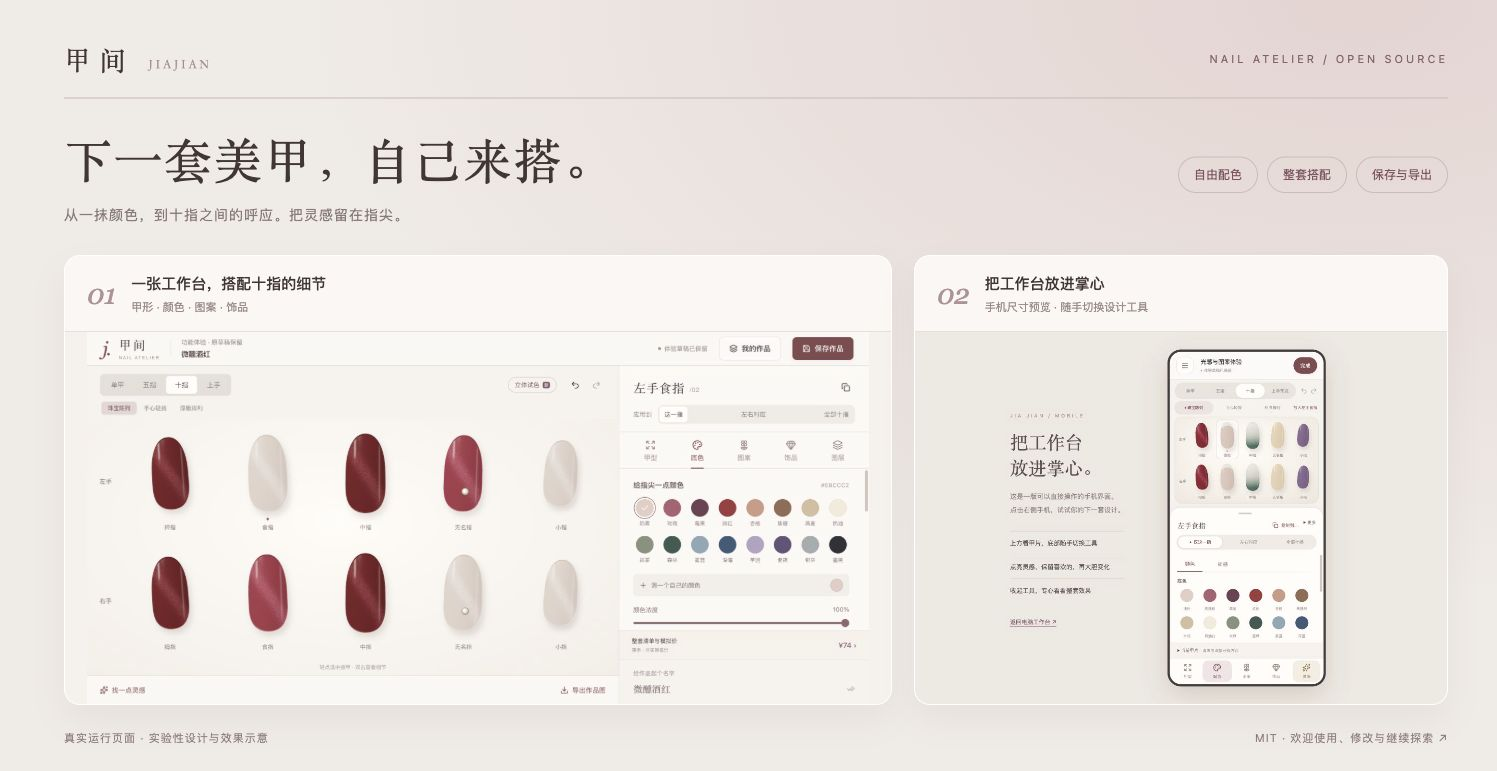
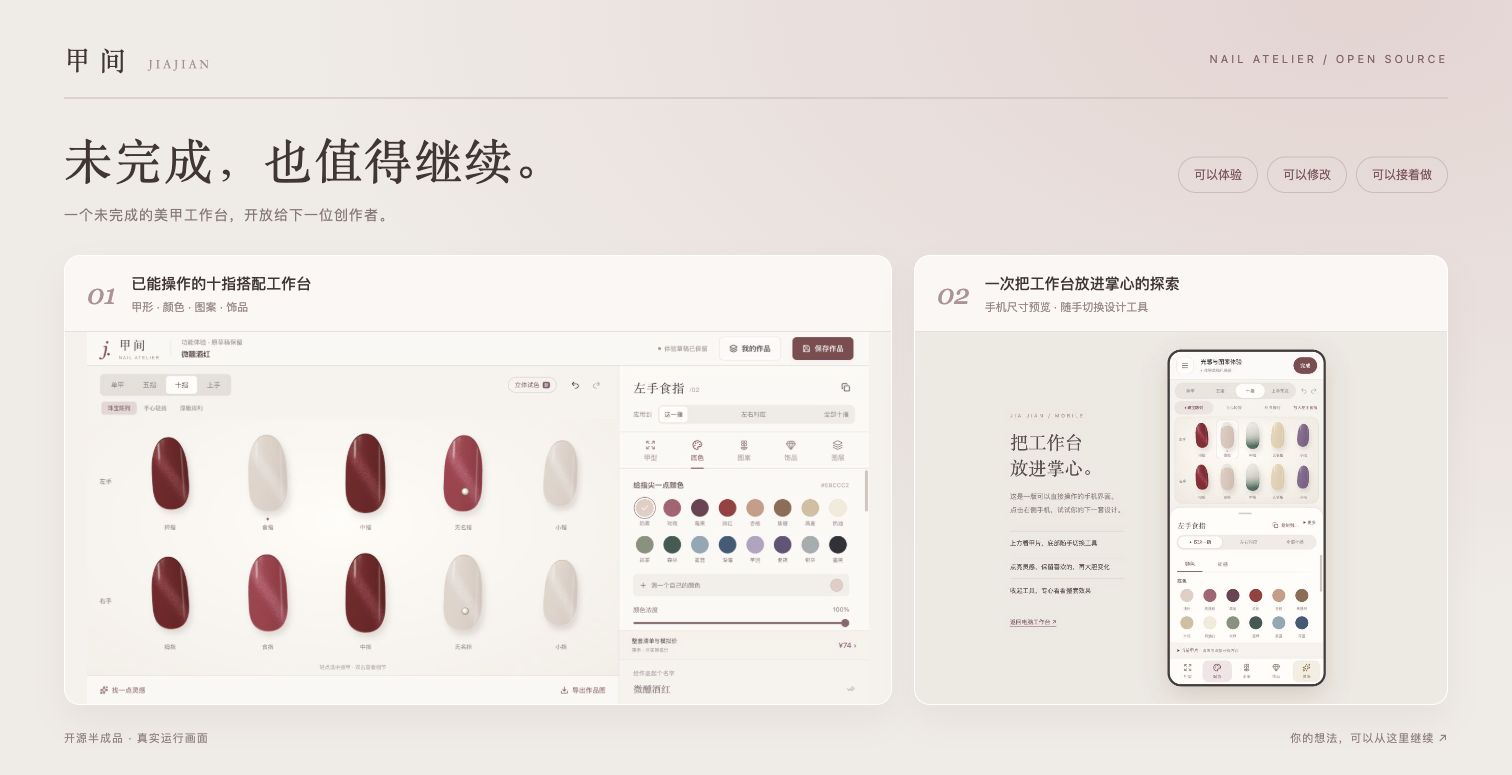
Present Jiajian as an open creative starting point with real demo

diff --git a/docs/showcase.html b/docs/showcase.html
@@ -1,3 +1,3 @@
-<!doctype html><html lang="zh-CN"><meta charset="utf-8"><meta name="viewport" content="width=device-width,initial-scale=1"><title>甲间 · 自己搭配下一套美甲</title><style>
+<!doctype html><html lang="zh-CN"><meta charset="utf-8"><meta name="viewport" content="width=device-width,initial-scale=1"><title>甲间 · 开放给下一位创作者</title><style>
 *{box-sizing:border-box}body{margin:0;background:#f0ebe5;color:#423536;font-family:-apple-system,BlinkMacSystemFont,"PingFang SC",sans-serif}.poster{padding:40px 64px 26px;min-height:100vh;background:radial-gradient(ellipse at 90% 0%,#e6d3d1,transparent 55%)}header{display:flex;justify-content:space-between;align-items:center;border-bottom:1px solid #c9b9b6;padding-bottom:20px}.logo{font-family:"Songti SC",serif;font-size:27px;letter-spacing:8px}.eyebrow{font-size:11px;letter-spacing:3px;color:#86626a}.intro{display:flex;align-items:center;justify-content:space-between;padding:26px 0 30px}h1{font-family:"Songti SC",serif;font-weight:400;font-size:48px;letter-spacing:2px;margin:0 0 13px}.subtitle{color:#897879;font-size:14px;letter-spacing:1px}.pills{display:flex;gap:9px}.pills span{border:1px solid #cdbbb9;padding:9px 15px;border-radius:30px;font-size:12px;color:#80515c}.grid{display:grid;grid-template-columns:1.55fr 1fr;gap:22px;align-items:start}.card{background:#faf7f3;border-radius:16px;overflow:hidden;box-shadow:0 15px 35px #644c4c12;border:1px solid #fff}.caption{display:flex;gap:15px;align-items:center;padding:17px 22px;border-bottom:1px solid #e8dfda}.num{font:italic 28px Georgia;color:#b09297}.caption strong{display:block;font-size:15px;font-weight:500}.caption small{display:block;color:#9b8a87;margin-top:5px;font-size:11px}.card img{width:100%;height:auto;display:block}.mobile img{height:372px;object-fit:cover;object-position:57% center}.desktop img{height:372px;object-fit:contain;background:#f5f2ed}footer{display:flex;justify-content:space-between;color:#927f7d;font-size:11px;padding-top:25px;letter-spacing:1px}@media(max-width:900px){.poster{padding:25px}.intro{display:block}h1{font-size:36px}.pills{margin-top:20px}.grid{grid-template-columns:1fr}.mobile img,.desktop img{height:auto}}
-</style><div class="poster"><header><div class="logo">甲间 <span style="font-size:12px;letter-spacing:3px;color:#a58e90">JIAJIAN</span></div><div class="eyebrow">NAIL ATELIER / OPEN SOURCE</div></header><div class="intro"><div><h1>下一套美甲，自己来搭。</h1><div class="subtitle">从一抹颜色，到十指之间的呼应。把灵感留在指尖。</div></div><div class="pills"><span>自由配色</span><span>整套搭配</span><span>保存与导出</span></div></div><div class="grid"><div class="card desktop"><div class="caption"><span class="num">01</span><div><strong>一张工作台，搭配十指的细节</strong><small>甲形 · 颜色 · 图案 · 饰品</small></div></div><img src="images/workbench.jpg" alt="电脑工作台真实截图"></div><div class="card mobile"><div class="caption"><span class="num">02</span><div><strong>把工作台放进掌心</strong><small>手机尺寸预览 · 随手切换设计工具</small></div></div><img src="images/mobile-preview.jpg" alt="手机外框预览真实截图"></div></div><footer><span>真实运行页面 · 实验性设计与效果示意</span><span>MIT · 欢迎使用、修改与继续探索 ↗</span></footer></div></html>
+</style><div class="poster"><header><div class="logo">甲间 <span style="font-size:12px;letter-spacing:3px;color:#a58e90">JIAJIAN</span></div><div class="eyebrow">NAIL ATELIER / OPEN SOURCE</div></header><div class="intro"><div><h1>未完成，也值得继续。</h1><div class="subtitle">一个未完成的美甲工作台，开放给下一位创作者。</div></div><div class="pills"><span>可以体验</span><span>可以修改</span><span>可以接着做</span></div></div><div class="grid"><div class="card desktop"><div class="caption"><span class="num">01</span><div><strong>已能操作的十指搭配工作台</strong><small>甲形 · 颜色 · 图案 · 饰品</small></div></div><img src="images/workbench.jpg" alt="电脑工作台真实截图"></div><div class="card mobile"><div class="caption"><span class="num">02</span><div><strong>一次把工作台放进掌心的探索</strong><small>手机尺寸预览 · 随手切换设计工具</small></div></div><img src="images/mobile-preview.jpg" alt="手机外框预览真实截图"></div></div><footer><span>开源半成品 · 真实运行画面</span><span>你的想法，可以从这里继续 ↗</span></footer></div></html>

diff --git a/README.md b/README.md
@@ -1,30 +1,55 @@
-![甲间：下一套美甲，自己来搭](docs/images/cover.jpg)
+![甲间：一个未完成的美甲工作台，开放给下一位创作者](docs/images/cover.jpg)
 
-# 甲间 · Jiajian Nail Atelier
+# 甲间 · 开放给下一位创作者
 
-一个可以自由搭配颜色、甲形、图案和饰品的美甲设计工作台。从一片指甲开始，慢慢搭出属于自己的整套风格。
+**一个未完成的美甲工作台，一份可以继续的创作起点。**
 
-开源实验项目，欢迎使用、修改和继续探索。
+配色、甲形、图案、饰品与十指搭配，已经有了可以操作的起点。甲间还没有成为一个完整产品，但我们希望这些探索不止停留在这里。
 
-## 能做什么
+所以，我们把它开源。你可以用它搭配自己的美甲，研究一个设计工具如何组织体验，也可以带着新的想法，把它继续做下去。
 
-- 为单指、五指或十指搭配颜色、甲形、图案和饰品。
-- 查看设计、生成灵感、保存作品和导出作品图。
-- 在预览版探索猫眼、光泽、材质效果及手机尺寸下的工作台。
-- 使用默认手部素材查看示意，不必先上传自己的照片。
+**[下载项目](https://github.com/laizhihui874-cmd/jiajian/releases/latest) · [开始体验](#开始体验) · [看看可以继续做什么](#下一步可以由你来写)**
 
+## 已经做出的东西
 
-## 看看实际画面
+**从一片指甲，到一整套搭配。**
 
-**电脑工作台：从一片指甲到完整十指搭配。** 可以套用灵感，再调整颜色、图案和饰品。
+选择甲形和颜色，加上图案与饰品；单独调整一指，或让十指一起变化。也可以从已有灵感出发，保留喜欢的部分，再慢慢改成自己的款式。
 
-![微醺酒红搭配，工作台实际运行截图](docs/images/workbench.jpg)
+![甲间工作台：酒红与裸粉的十指搭配](docs/images/workbench.jpg)
 
-**手机预览：上方看设计，下方切换工具。**
+**让设计动起来，看见操作前后的变化。**
 
-![手机外框中的可操作工作台](docs/images/mobile-preview.jpg)
+下面用真实操作的关键画面，展示一套搭配如何换色、再调整其中一指。保存喜欢的作品，也可以导出作品图。
 
-以上为实际运行截图，效果仅作美甲设计参考。
+![真实操作关键帧：原搭配、整套换色、单指调整](docs/images/design-flow.gif)
+
+**也探索过，把工作台放进掌心。**
+
+上方看设计，下方切换工具。手机预览保留了另一种操作方式，光感与材质也还有值得继续打磨的空间。
+
+![甲间手机尺寸下的可操作预览](docs/images/mobile-preview.jpg)
+
+*以上均来自实际运行页面，效果仅作美甲设计参考。*
+
+## 你可以拿它做什么
+
+| 如果你是…… | 可以从这里开始 |
+|---|---|
+| 美甲爱好者 | 玩一套自己的配色，试试不同甲形、图案与重点甲的组合 |
+| 产品或界面设计师 | 研究十指搭配、工具切换、灵感选择这些具体体验，再提出自己的改法 |
+| 想做创作工具的人 | 拿已有工作台继续改造，探索自己的美甲工具或其他搭配工具 |
+
+## 下一步，可以由你来写
+
+这是半成品。下面这些是值得继续探索的方向，欢迎选择你感兴趣的一项：
+
+- **让第一步更容易**：让第一次打开的人更快理解怎么选、怎么改、怎么完成一套设计。
+- **让手机操作更顺手**：继续打磨小屏上的预览、工具切换与细节调整。
+- **让颜色与光感更自然**：改进猫眼、材质和手部展示，让不同视图中的效果更一致。
+- **让作品更方便分享**：完善作品整理、导出与展示，把搭配过程和成果讲得更清楚。
+
+它们是开放的探索方向，不是已经完成的功能或交付承诺。有想法可以[提出建议](https://github.com/laizhihui874-cmd/jiajian/issues)，也欢迎直接修改并分享你的版本。
 
 ## 开始体验
 
@@ -32,6 +57,8 @@
 - [电脑工作台使用指南](workbench/README.md)
 - [下载开源版本](https://github.com/laizhihui874-cmd/jiajian/releases/latest)
 
-## 开源与素材
+## 自由使用，继续创作
 
-自有代码按 [MIT License](LICENSE) 开源，欢迎使用、修改和继续开发。依赖和第三方素材保留各自许可，见 [素材与第三方说明](THIRD_PARTY_NOTICES.md)。
+自有代码以 [MIT License](LICENSE) 开源，欢迎使用、修改和继续开发。依赖和第三方素材保留各自许可，见[素材与第三方说明](THIRD_PARTY_NOTICES.md)。
+
+如果甲间成为了你下一个作品的起点，欢迎回来分享。
